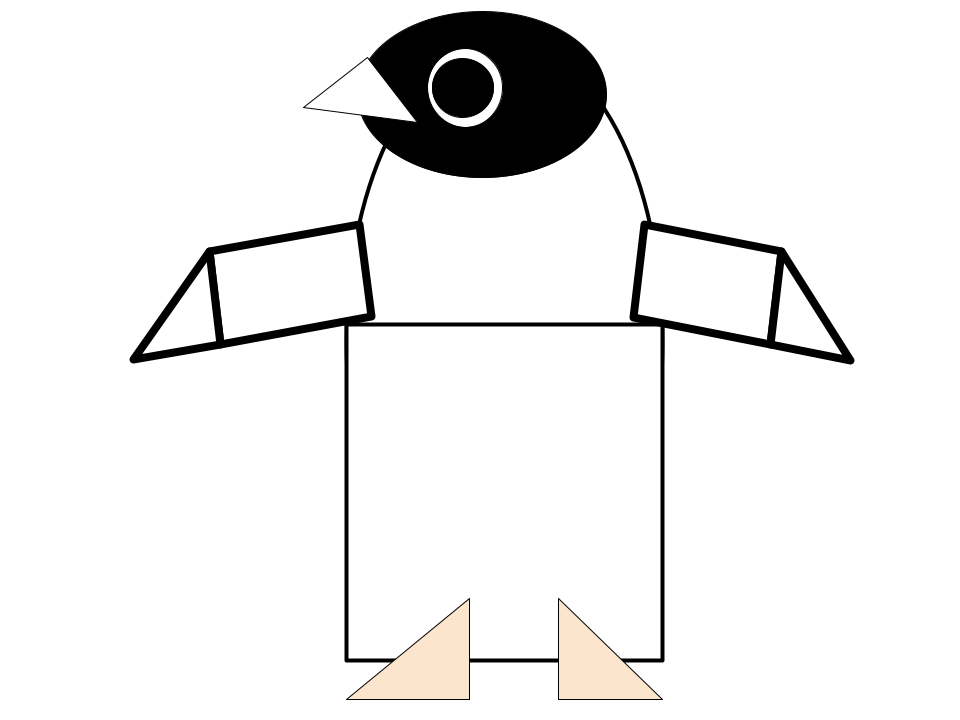
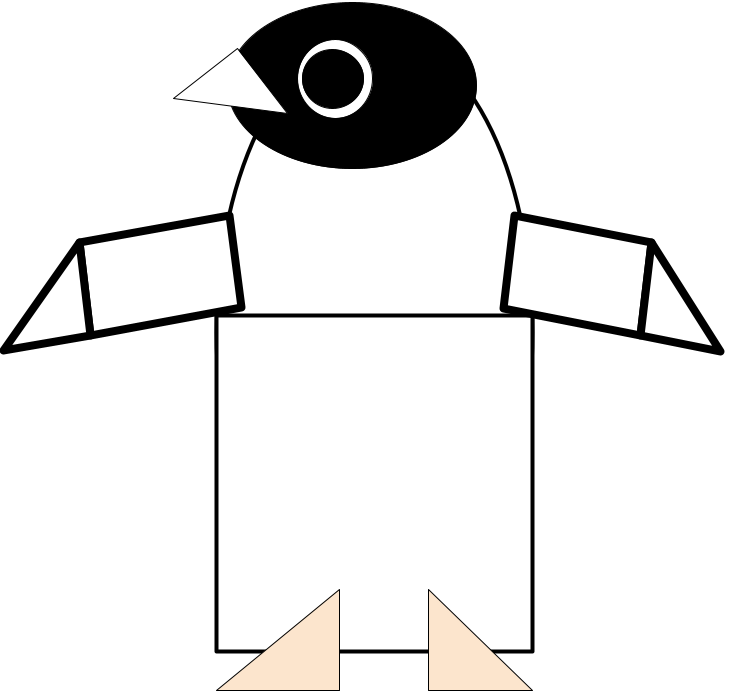
changed image larger removed width

diff --git a/docs/index.html b/docs/index.html
@@ -20,8 +20,7 @@
 }
 
 .penguin {
-    width: 150px;
-    height: 200px;
+    height: 700px;
     background-image: url('images/penguin.png');
     background-size: contain;
     background-repeat: no-repeat;
